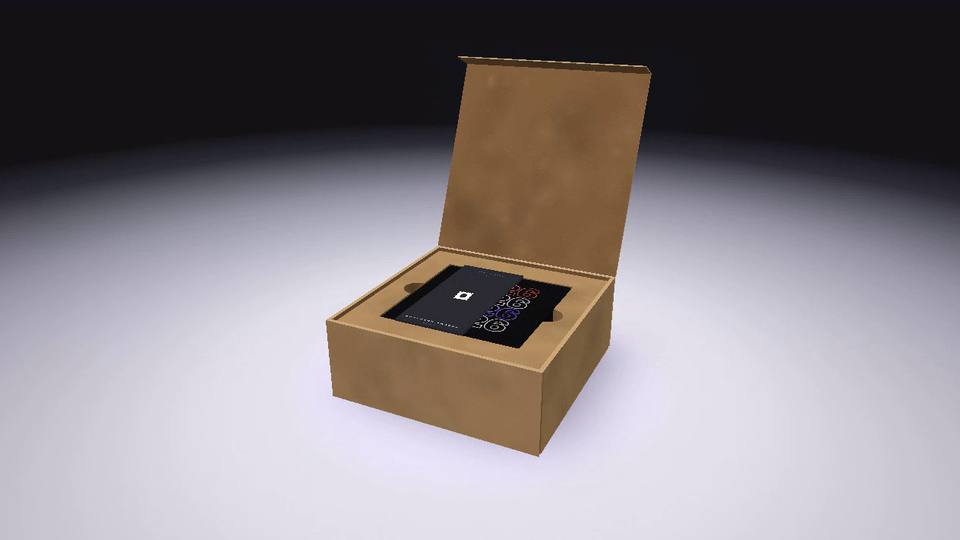
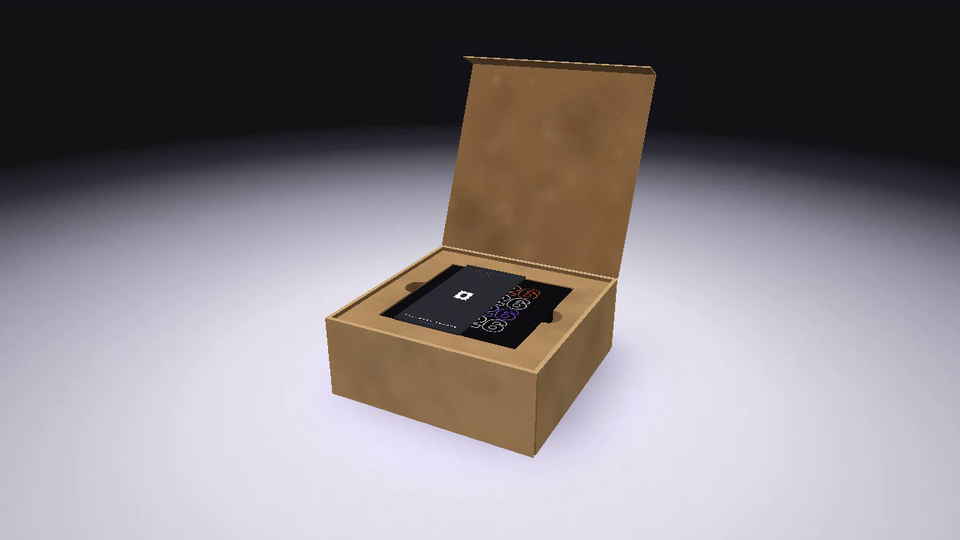
Postmark Awards Unboxing: sleeve stamp square, no tilt (#916)
* Postmark Awards Unboxing: flat glass porcupine, ribbon pull, white stamp on the sleeve

Back to the flat slab porcupine, the red ribbon now pulls up as the award comes out and drops slack once it is free, and the sleeve's die cut window is replaced by a small white Postmark stamp in the middle.

Claude-Session: https://claude.ai/code/session_016rpguZhw5M1h1FTryY25yE

* Postmark Awards Unboxing: sleeve stamp square, no tilt

Claude-Session: https://claude.ai/code/session_016rpguZhw5M1h1FTryY25yE

---------

diff --git a/postmark-awards-unboxing/index.html b/postmark-awards-unboxing/index.html
@@ -288,7 +288,7 @@ function buildTextures() {
       ctx.font = '700 ' + 6.5 * S + 'px ' + SANS; ctx.letterSpacing = 3 * S + 'px'; ctx.textAlign = 'center'; ctx.fillText('SLIDE TO OPEN', cx, 24 * S); ctx.fillText('←', cx, 38 * S);
     };
     deboss(c, w, h, shape, 2.2, 1.1);
-    ringShape(c, cx, cz, 22 * S, '#fff', 0.84, 1.2, -0.08); // the logo's perforated stamp, small and white, dead centre
+    ringShape(c, cx, cz, 22 * S, '#fff', 0.84, 1.2, 0); // the logo's perforated stamp, small and white, dead centre, square to the sleeve
     c.fillStyle = '#fff'; c.textAlign = 'center'; c.font = '700 ' + 7.5 * S + 'px ' + SANS; c.letterSpacing = 4 * S + 'px'; c.fillText('POSTMARK AWARDS', cx, 330 * S); c.fillStyle = '#7A4BFF'; c.fillText('2026', cx, 340 * S + 8);
     T.sleeveTop = g;
   }
